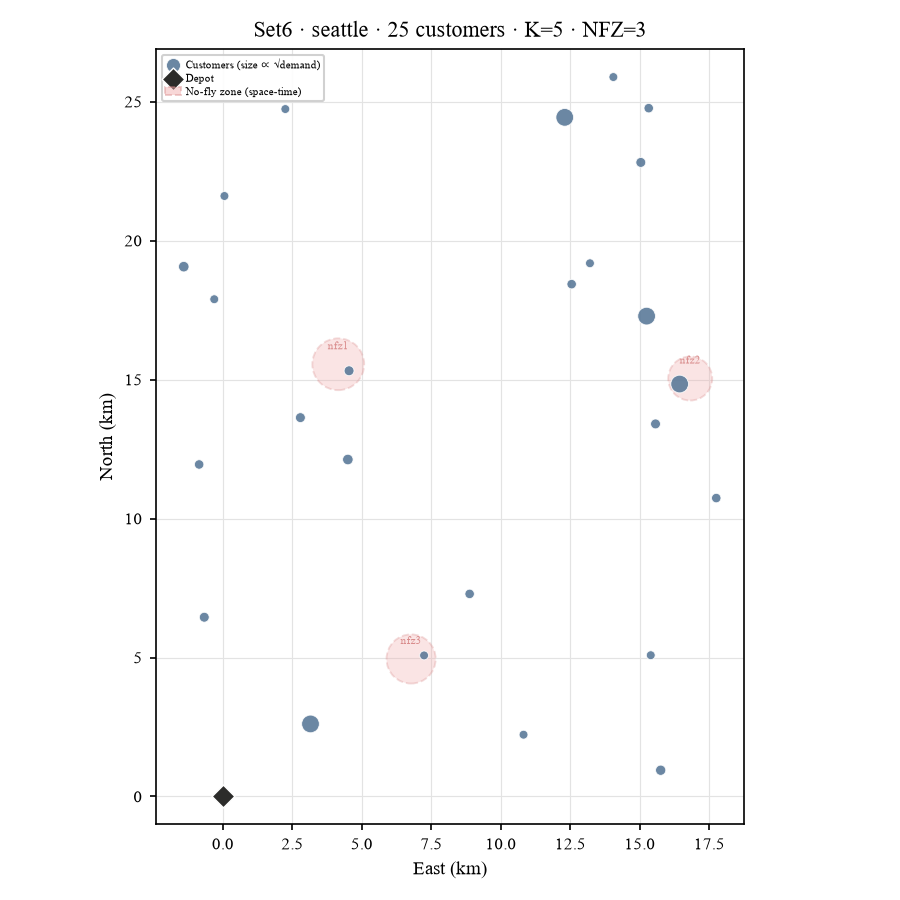
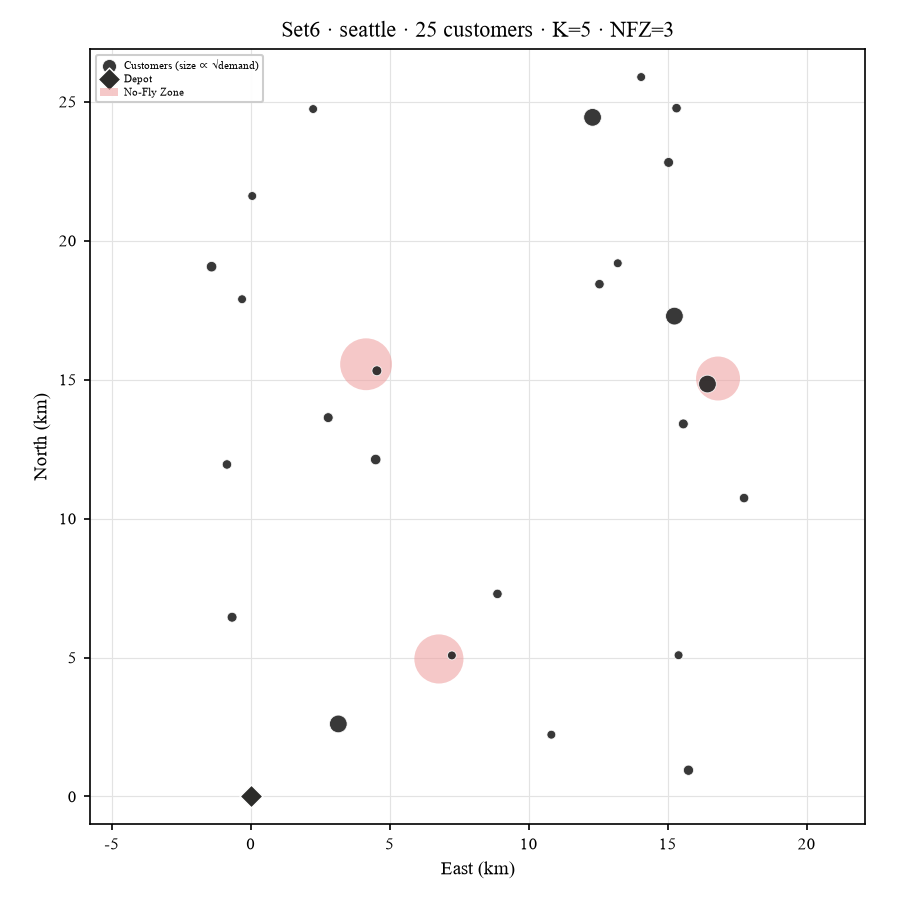
style: 图例改成论文 Fig.8 的组织方式，并挪到坐标区外不挡路线
对齐 Fig.8（已按 400 dpi 放大核对原图）：
- 图例内容：Nodes / Truck k（实线+节点小圆点）/ Drone k（同色虚线）/ Depot / No-Fly Zone
  每辆车占两行，虚线颜色与所属卡车一致，一眼能对上
- 图例位置：从面板内左上角改为**坐标区右侧框外**（bbox_to_anchor=(1.015, 1)），
  论文原图里图例压在路线上，这里彻底不遮挡
- 路线图改 2×2 布局（与论文版式一致），每面板各挂自己的图例
- 节点统一成近黑小点（论文只有 Nodes 一项，不再区分卡车/无人机直服）
- 禁飞区改鲑鱼粉实心圆（无描边、无文字标签），与论文一致
- _setup_axes 增加 square：多面板里把短边补到长边，各面板框尺寸一致
- compare_fig8 用 generic_route_legend_handles()（4 个面板车队规模不同，共享通用图例）
- 188 项快测全绿

diff --git a/src/visualizer.py b/src/visualizer.py
@@ -26,37 +26,38 @@ FIG_DIR = PROJECT_ROOT / "results" / "figs"
 style.apply()
 
 
-def _draw_nfz(inst: Instance, ax) -> None:
-    """禁飞区：浅粉填充 + 虚线边（论文 Fig.8 的样式）。"""
+def _draw_nfz(inst: Instance, ax, labels: bool = False) -> None:
+    """禁飞区：鲑鱼粉**实心**圆（论文 Fig.8 的样子：无描边、无文字）。"""
     for z in inst.nfz:
-        c = Circle(
-            (z.cx / 1000.0, z.cy / 1000.0),
-            z.r / 1000.0,
-            facecolor=style.NFZ_FILL,
-            alpha=0.30,
-            edgecolor=style.NFZ_EDGE,
-            linewidth=0.9,
-            linestyle="--",
-            zorder=1,
+        ax.add_patch(
+            Circle(
+                (z.cx / 1000.0, z.cy / 1000.0),
+                z.r / 1000.0,
+                facecolor=style.NFZ_FILL,
+                alpha=0.55,
+                edgecolor="none",
+                zorder=1,
+            )
         )
-        ax.add_patch(c)
-        ax.annotate(
-            z.label,
-            (z.cx / 1000.0, z.cy / 1000.0),
-            xytext=(0, 6),
-            textcoords="offset points",
-            ha="center",
-            va="bottom",
-            fontsize=5.5,
-            color=style.NFZ_EDGE,
-            zorder=2,
-        )
+        if labels:
+            ax.annotate(
+                z.label, (z.cx / 1000.0, z.cy / 1000.0),
+                xytext=(0, 6), textcoords="offset points",
+                ha="center", va="bottom", fontsize=5.5,
+                color=style.NFZ_EDGE, zorder=2,
+            )
 
 
-def _setup_axes(inst: Instance, ax, title: str | None) -> None:
+def _setup_axes(inst: Instance, ax, title: str | None, square: bool = True) -> None:
+    """统一坐标范围。`square=True` 时把短边补到长边，保证多面板里每个框一样大。"""
     xy = np.array([[nd.x, nd.y] for nd in inst.base.nodes]) / 1000.0
     lo = xy.min(axis=0) - 1.0
     hi = xy.max(axis=0) + 1.0
+    if square:
+        span = float(max(hi[0] - lo[0], hi[1] - lo[1]))
+        cx, cy = (lo[0] + hi[0]) / 2, (lo[1] + hi[1]) / 2
+        lo = np.array([cx - span / 2, cy - span / 2])
+        hi = np.array([cx + span / 2, cy + span / 2])
     ax.set_xlim(lo[0], hi[0])
     ax.set_ylim(lo[1], hi[1])
     ax.set_aspect("equal", adjustable="box")
@@ -93,40 +94,98 @@ def plot_network(inst: Instance, ax=None, title: str | None = None, legend: bool
                linewidths=0.7, zorder=4, label="Depot")
 
     if legend:
-        nfz_proxy = Patch(facecolor=style.NFZ_FILL, alpha=0.45, edgecolor=style.NFZ_EDGE,
-                          linewidth=0.9, linestyle="--", label="No-fly zone (space-time)")
+        nfz_proxy = Patch(facecolor=style.NFZ_FILL, alpha=0.55, edgecolor="none",
+                          label="No-Fly Zone")
         handles, labels = ax.get_legend_handles_labels()
-        ax.legend(handles + [nfz_proxy], labels + ["No-fly zone (space-time)"],
-                  loc="upper left", fontsize=5.5, framealpha=0.9,
-                  handletextpad=0.4, borderpad=0.3, labelspacing=0.25,
-                  handlelength=1.4)
+        ax.legend(handles + [nfz_proxy], labels + ["No-Fly Zone"],
+                  loc="upper left", fontsize=5.5, framealpha=0.95,
+                  handletextpad=0.5, borderpad=0.35, labelspacing=0.25,
+                  handlelength=1.6)
 
     _setup_axes(inst, ax, title)
     return ax
 
 
-def solution_legend_handles(inst: Instance) -> list:
-    """路线图的**通用**图例（不按卡车逐条列，卡车颜色看图即可）。"""
+def solution_legend_handles(inst: Instance, sol: "Solution") -> list:
+    """论文 Fig.8 的图例内容：Nodes / Truck k / Drone k / Depot / No-Fly Zone。
+
+    每辆车占**两行**：实线（带小圆点）= 卡车路径，同色虚线 = 该车无人机的架次。
+    这是 Fig.8 的做法，图上一眼就能把「哪条虚线和哪条实线是同一辆车」对上。
+    """
+    from matplotlib.lines import Line2D
+    from matplotlib.patches import Patch
+    from .solution import DEPOT
+
+    handles = [
+        Line2D([], [], color=style.CUSTOMER, marker="o", linestyle="none",
+               markersize=3.6, label="Nodes"),
+    ]
+    for r in sorted(sol.routes, key=lambda x: x.truck):      # 图例按车号排序，便于对照
+        if len(r.nodes) <= 2 and not r.sorties:
+            continue
+        c = style.route_color(r.truck)
+        handles.append(
+            Line2D([], [], color=c, linewidth=1.2, marker="o", markersize=2.6,
+                   label=f"Truck {r.truck}")
+        )
+        if r.sorties:
+            handles.append(
+                Line2D([], [], color=c, linewidth=0.9, linestyle=(0, (3, 2)),
+                       label=f"Drone {r.truck}")
+            )
+    handles.append(
+        Line2D([], [], color=style.DEPOT, marker="D", linestyle="none",
+               markersize=4.5, label="Depot")
+    )
+    if inst.nfz:
+        handles.append(
+            Patch(facecolor=style.NFZ_FILL, alpha=0.55, edgecolor="none",
+                  label="No-Fly Zone")
+        )
+    return handles
+
+
+def generic_route_legend_handles(inst: Instance) -> list:
+    """不逐车列色的通用图例（多个面板车队规模不同时用这一套）。"""
     from matplotlib.lines import Line2D
     from matplotlib.patches import Patch
 
     handles = [
-        Line2D([], [], color="#555555", linewidth=1.3, label="Truck route (solid)"),
-        Line2D([], [], color="#555555", linewidth=0.9, linestyle=(0, (3, 2)),
-               label="Drone sortie (dashed)"),
         Line2D([], [], color=style.CUSTOMER, marker="o", linestyle="none",
-               markersize=4.5, label="Truck-served customer"),
-        Line2D([], [], color="#555555", marker="o", markerfacecolor="white",
-               markeredgecolor="#555555", markeredgewidth=0.8, linestyle="none",
-               markersize=4.5, label="Drone-served customer"),
+               markersize=3.6, label="Nodes"),
+        Line2D([], [], color="#555555", linewidth=1.2, marker="o", markersize=2.6,
+               label="Truck route (one colour per truck)"),
+        Line2D([], [], color="#555555", linewidth=0.9, linestyle=(0, (3, 2)),
+               label="Drone sortie (dashed, same colour)"),
         Line2D([], [], color=style.DEPOT, marker="D", linestyle="none",
-               markersize=5.5, label="Depot"),
+               markersize=4.5, label="Depot"),
     ]
     if inst.nfz:
-        handles.append(Patch(facecolor=style.NFZ_FILL, alpha=0.4,
-                             edgecolor=style.NFZ_EDGE, linewidth=0.8,
-                             linestyle="--", label="No-fly zone (space-time)"))
+        handles.append(Patch(facecolor=style.NFZ_FILL, alpha=0.55, edgecolor="none",
+                             label="No-Fly Zone"))
     return handles
+
+
+def attach_legend(ax, inst: Instance, sol: "Solution", font_size: float = 6.0) -> None:
+    """把 Fig.8 式图例挂在**坐标区右侧外面**——不遮挡任何路线。
+
+    论文把图例塞在面板左上角，路线会从图例底下穿过；这里放到框外，
+    面板里只留数据。`bbox_to_anchor=(1.015, 1.0)` + `loc="upper left"` 即贴在右侧。
+    """
+    ax.legend(
+        handles=solution_legend_handles(inst, sol),
+        loc="upper left",
+        bbox_to_anchor=(1.015, 1.0),
+        borderaxespad=0.0,
+        fontsize=font_size,
+        frameon=True,
+        framealpha=1.0,
+        edgecolor="#D0D0D0",
+        handletextpad=0.5,
+        borderpad=0.45,
+        labelspacing=0.28,
+        handlelength=2.0,
+    )
 
 
 def plot_solution(
@@ -135,60 +194,52 @@ def plot_solution(
     ax=None,
     title: str | None = None,
     legend: bool = False,
+    font_size: float = 6.0,
 ) -> None:
-    """画完整解：卡车实线 + 无人机虚线 + 仓库 + 禁飞区（论文 Fig.8 的画法）。
+    """画完整解：卡车实线（带节点小圆点）+ 无人机同色虚线（论文 Fig.8 的画法）。
 
-    - 每辆卡车一色（`style.ROUTES`），卡车路径是实线；
+    - 每辆卡车一色（`style.ROUTES`），路径实线并在经过的节点处画小圆点；
     - 该车无人机的每个架次用**同色虚线**：起飞点 → 客户序列 → 回收点；
-    - 无人机服务的客户画空心小圆，和卡车直服的实心点区分开；
-    - 仓库用小菱形（大黑方块太抢眼，也容易压住路线）。
+    - 所有节点统一画成黑点（论文里就是 "Nodes" 一项，不区分谁服务的）；
+    - 仓库用小菱形，禁飞区是鲑鱼粉实心圆。
 
-    图例默认**不画在面板里**（会挡路线）：多面板脚本用
-    `solution_legend_handles()` + `fig.legend()` 在图外放一条共享图例。
+    `legend=True` 时把 Fig.8 式图例挂在坐标区右侧外面（不遮路线）；
+    多面板脚本请自行调用 `attach_legend()`，方便统一布局。
     """
-    from .solution import DEPOT, Solution  # noqa: F401  避免循环导入
+    from .solution import DEPOT
 
     if ax is None:
         _, ax = plt.subplots(figsize=(6, 6))
 
     _draw_nfz(inst, ax)
 
-    used = 0
     for r in sol.routes:
         if len(r.nodes) <= 2 and not r.sorties:
             continue                                   # 空车不画
         c = style.route_color(r.truck)
         xs = [inst.base.nodes[n].x / 1000.0 for n in r.nodes]
         ys = [inst.base.nodes[n].y / 1000.0 for n in r.nodes]
-        ax.plot(xs, ys, color=c, linewidth=1.2, alpha=0.95, zorder=3,
+        ax.plot(xs, ys, color=c, linewidth=1.2, zorder=3, marker="o",
+                markersize=2.6, markerfacecolor=c, markeredgecolor=c,
                 solid_capstyle="round", label=f"Truck {r.truck}")
-        used += 1
 
         for s in r.sorties:
             seq = [r.nodes[s.launch], *s.customers, r.nodes[s.recover]]
             dxs = [inst.base.nodes[n].x / 1000.0 for n in seq]
             dys = [inst.base.nodes[n].y / 1000.0 for n in seq]
-            ax.plot(dxs, dys, color=c, linewidth=0.9, linestyle=(0, (3, 2)),
-                    alpha=0.95, zorder=3)
-            cx = [inst.base.nodes[n].x / 1000.0 for n in s.customers]
-            cy = [inst.base.nodes[n].y / 1000.0 for n in s.customers]
-            ax.scatter(cx, cy, s=9, facecolor="white", edgecolor=c, linewidths=0.7,
-                       zorder=4)
+            ax.plot(dxs, dys, color=c, linewidth=0.85, linestyle=(0, (3, 2)),
+                    zorder=2.5)
 
-    # 客户（卡车直服）：比无人机服务的点更小
+    # 节点：统一黑点（论文 "Nodes"）
     xy = np.array([[nd.x, nd.y] for nd in inst.base.nodes]) / 1000.0
-    truck_served = {n for r in sol.routes for n in r.nodes if n != DEPOT}
-    if truck_served:
-        idx = sorted(truck_served)
-        ax.scatter(xy[idx, 0], xy[idx, 1], s=13, c=style.CUSTOMER, edgecolors="white",
-                   linewidths=0.4, zorder=5, label="Truck-served customers")
-    ax.scatter(*xy[0], s=42, marker="D", c=style.DEPOT, edgecolors="white",
-               linewidths=0.7, zorder=6, label="Depot")
+    ax.scatter(xy[1:, 0], xy[1:, 1], s=9, c=style.CUSTOMER, edgecolors="none",
+               zorder=4, label="Nodes")
+    # 仓库：小菱形
+    ax.scatter(*xy[0], s=38, marker="D", c=style.DEPOT, edgecolors="white",
+               linewidths=0.7, zorder=5, label="Depot")
 
     if legend:
-        ax.legend(handles=solution_legend_handles(inst), loc="upper left", fontsize=6,
-                  framealpha=0.95, handletextpad=0.4, borderpad=0.35,
-                  labelspacing=0.3, handlelength=1.8)
+        attach_legend(ax, inst, sol, font_size=font_size)
 
     _setup_axes(inst, ax, title)
 
@@ -215,14 +266,13 @@ def _network_legend_handles(inst: Instance) -> list:
 
     handles = [
         Line2D([], [], color=style.CUSTOMER, marker="o", linestyle="none",
-               markersize=4.5, label="Customers (size ∝ √demand)"),
+               markersize=3.8, label="Nodes (size ∝ √demand)"),
         Line2D([], [], color=style.DEPOT, marker="D", linestyle="none",
                markersize=5.5, label="Depot"),
     ]
     if inst.nfz:
-        handles.append(Patch(facecolor=style.NFZ_FILL, alpha=0.4,
-                             edgecolor=style.NFZ_EDGE, linewidth=0.8,
-                             linestyle="--", label="No-fly zone (space-time)"))
+        handles.append(Patch(facecolor=style.NFZ_FILL, alpha=0.55, edgecolor="none",
+                             label="No-Fly Zone"))
     return handles
 
 

diff --git a/scripts/plot_routes.py b/scripts/plot_routes.py
@@ -23,7 +23,7 @@ from src.evaluator import evaluate
 from src.generator import build_instance
 from src.io import PROJECT_ROOT, load_config, load_sets
 from src.solution import solution_from_dict, solution_to_dict
-from src.visualizer import plot_solution, solution_legend_handles
+from src.visualizer import attach_legend, plot_solution, solution_legend_handles
 
 CACHE = PROJECT_ROOT / "results" / "solutions"
 FIG_DIR = PROJECT_ROOT / "results" / "figs"
@@ -77,10 +77,10 @@ def main() -> None:
     by_id = {s["id"]: s for s in load_sets()}
     ids = sorted(by_id) if args.all else REPRESENTATIVE
 
-    cols = 4 if not args.all else 4
+    cols = 2                       # 论文 Fig.8 就是 2×2，图例挂在每个面板右侧
     n = len(ids)
     rows = (n + cols - 1) // cols
-    fig, axes = plt.subplots(rows, cols, figsize=(4.2 * cols, 4.4 * rows))
+    fig, axes = plt.subplots(rows, cols, figsize=(5.0 * cols, 4.4 * rows))
     axes = list(axes.ravel()) if hasattr(axes, "ravel") else [axes]
 
     for ax, sid in zip(axes, ids):
@@ -88,20 +88,17 @@ def main() -> None:
         sol, cost, cached = get_solution(inst, refresh=args.refresh)
         plot_solution(
             inst, sol, ax=ax, legend=False,
-            title=f"Set{sid} · {inst.n_customers} customers · K={inst.n_trucks} · cost {cost:.1f}",
+            title=f"Set{sid}: {inst.n_customers} customers, K={inst.n_trucks}, cost {cost:.1f}",
         )
+        attach_legend(ax, inst, sol, font_size=5.5)      # Fig.8 式图例，挂在右侧框外
         tag = "缓存" if cached else "新解"
         print(f"Set{sid:2d} n={inst.n_customers:3d} 成本 {cost:9.2f}  [{tag}]")
 
     for ax in axes[n:]:
         ax.set_axis_off()
 
-    fig.suptitle("ALNS solutions: truck routes (solid, one color per truck) + drone sorties (dashed)",
-                 fontsize=11)
-    fig.legend(handles=solution_legend_handles(inst), loc="lower center",
-               ncol=6, fontsize=8, frameon=False,
-               bbox_to_anchor=(0.5, -0.005))
-    fig.tight_layout(rect=(0, 0.045, 1, 0.97))
+    fig.suptitle("Truck & Drone Routes (ALNS solutions)", fontsize=12)
+    fig.tight_layout(rect=(0, 0, 1, 0.96))
     out = FIG_DIR / ("routes_all.png" if args.all else "routes_fig8.png")
     out.parent.mkdir(parents=True, exist_ok=True)
     fig.savefig(out, dpi=170, bbox_inches="tight")

diff --git a/scripts/compare_fig8.py b/scripts/compare_fig8.py
@@ -22,7 +22,7 @@ from PIL import Image
 from src.generator import build_instance
 from src.io import PROJECT_ROOT, load_config, load_sets
 from scripts.plot_routes import get_solution
-from src.visualizer import plot_solution, solution_legend_handles
+from src.visualizer import generic_route_legend_handles, plot_solution
 
 PDF = PROJECT_ROOT / "Zeng 等 - 2026 - Optimizing bidirectional delivery with multiple drones and trucks a mixed-integer nonlinear model t.pdf"
 PAGE_PNG = PROJECT_ROOT / ".tmp" / "hi20-20.png"
@@ -84,8 +84,8 @@ def main() -> None:
 
     fig.text(0.02, 0.955, "Paper Fig.8 (with routes)", fontsize=10)
     fig.text(0.02, 0.475, "This project: ALNS solutions (same palette & style)", fontsize=10)
-    fig.legend(handles=solution_legend_handles(inst), loc="lower center",
-               ncol=6, fontsize=8, frameon=False, bbox_to_anchor=(0.5, -0.005))
+    fig.legend(handles=generic_route_legend_handles(inst), loc="lower center",
+               ncol=5, fontsize=8, frameon=False, bbox_to_anchor=(0.5, -0.005))
     fig.suptitle("Instance comparison: paper Fig.8 vs. this project", fontsize=13, y=0.995)
 
     OUT.parent.mkdir(parents=True, exist_ok=True)

diff --git a/src/style.py b/src/style.py
@@ -48,9 +48,9 @@ ROUTES = [
 ]
 
 # ---- 要素色 ----
-NFZ_FILL = "#F0A8A8"      # 禁飞区填充（论文那张图里的粉色）
+NFZ_FILL = "#EE9C9C"      # 禁飞区填充（论文那张图里的鲑鱼粉，实心无描边）
 NFZ_EDGE = "#D98C8C"
-CUSTOMER = "#5B7A99"      # 客户点：低饱和蓝灰，不与路线抢视觉
+CUSTOMER = "#222222"      # 节点：近黑小点（论文 Fig.8 的 Nodes 就是黑点）
 DEPOT = "#2C2C2A"         # 仓库：近黑
 
 GRID = "#E3E3E3"          # 浅灰网格（比曲线浅两个档次）

diff --git a/README.md b/README.md
@@ -100,7 +100,12 @@ Without-detour 是「收紧」不是「放开」——论文 Table 3 该列 Incr
 |---|---|---|
 | 灵敏度曲线（Fig.9/10/11） | `style.PALETTE` 5 色柔和系 | 青 `#7FC3C3`、薰衣草 `#BCBCDA`、橙 `#EF8B4C`、浅蓝 `#82AAD2`、浅绿 `#93BC80` |
 | 路线图（Fig.8，十几条线） | `style.ROUTES`（tab10） | 浅色分不开十几条路线 |
-| 禁飞区 / 客户 / 仓库 | `NFZ_FILL` `CUSTOMER` `DEPOT` | 粉色虚线圈、灰蓝点、近黑方块 |
+| 禁飞区 / 节点 / 仓库 | `NFZ_FILL` `CUSTOMER` `DEPOT` | 鲑鱼粉实心圆、近黑小点、黑色小菱形 |
+
+图例按论文 Fig.8 的组织方式：**每辆车两行**（实线 `Truck k` + 同色虚线 `Drone k`），
+外加 `Nodes` / `Depot` / `No-Fly Zone`。图例挂在坐标区**右侧框外**（论文是塞在面板左上角，
+路线会从图例底下穿过），保证不遮挡任何数据。多面板且车队规模不同时用
+`generic_route_legend_handles()` 的通用一套（图底部一行）。
 
 ```python
 from src import style
